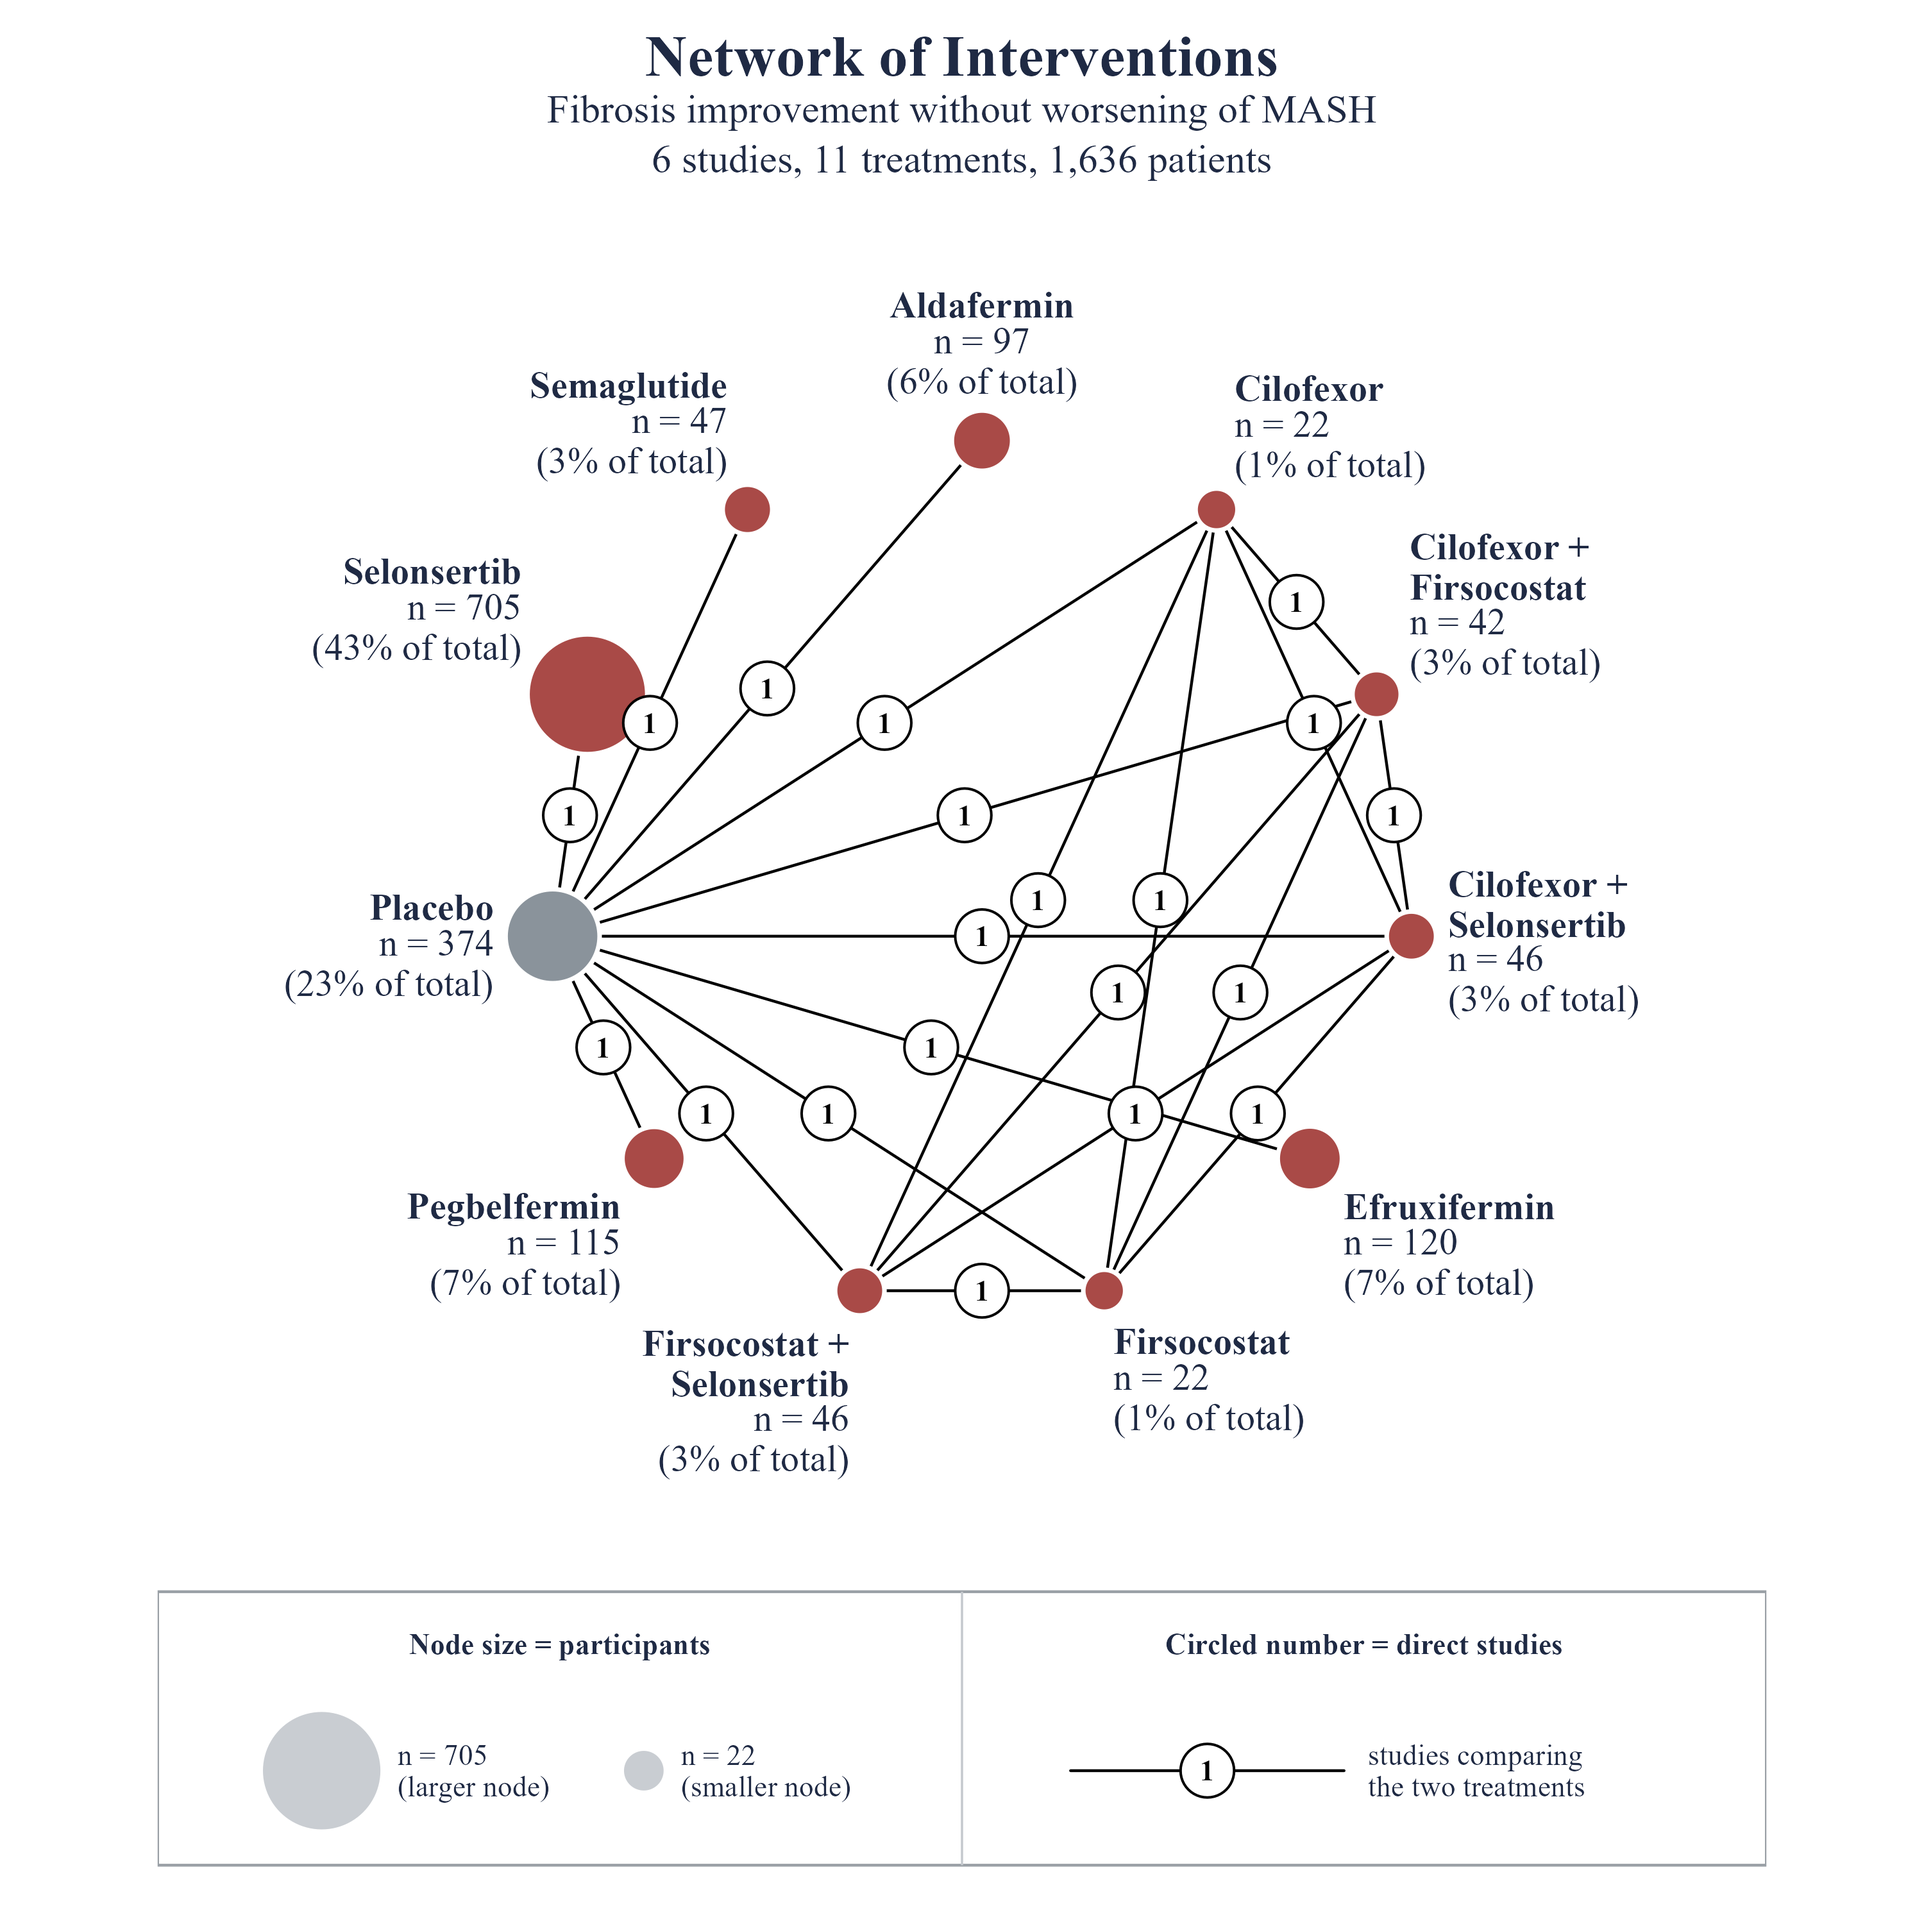
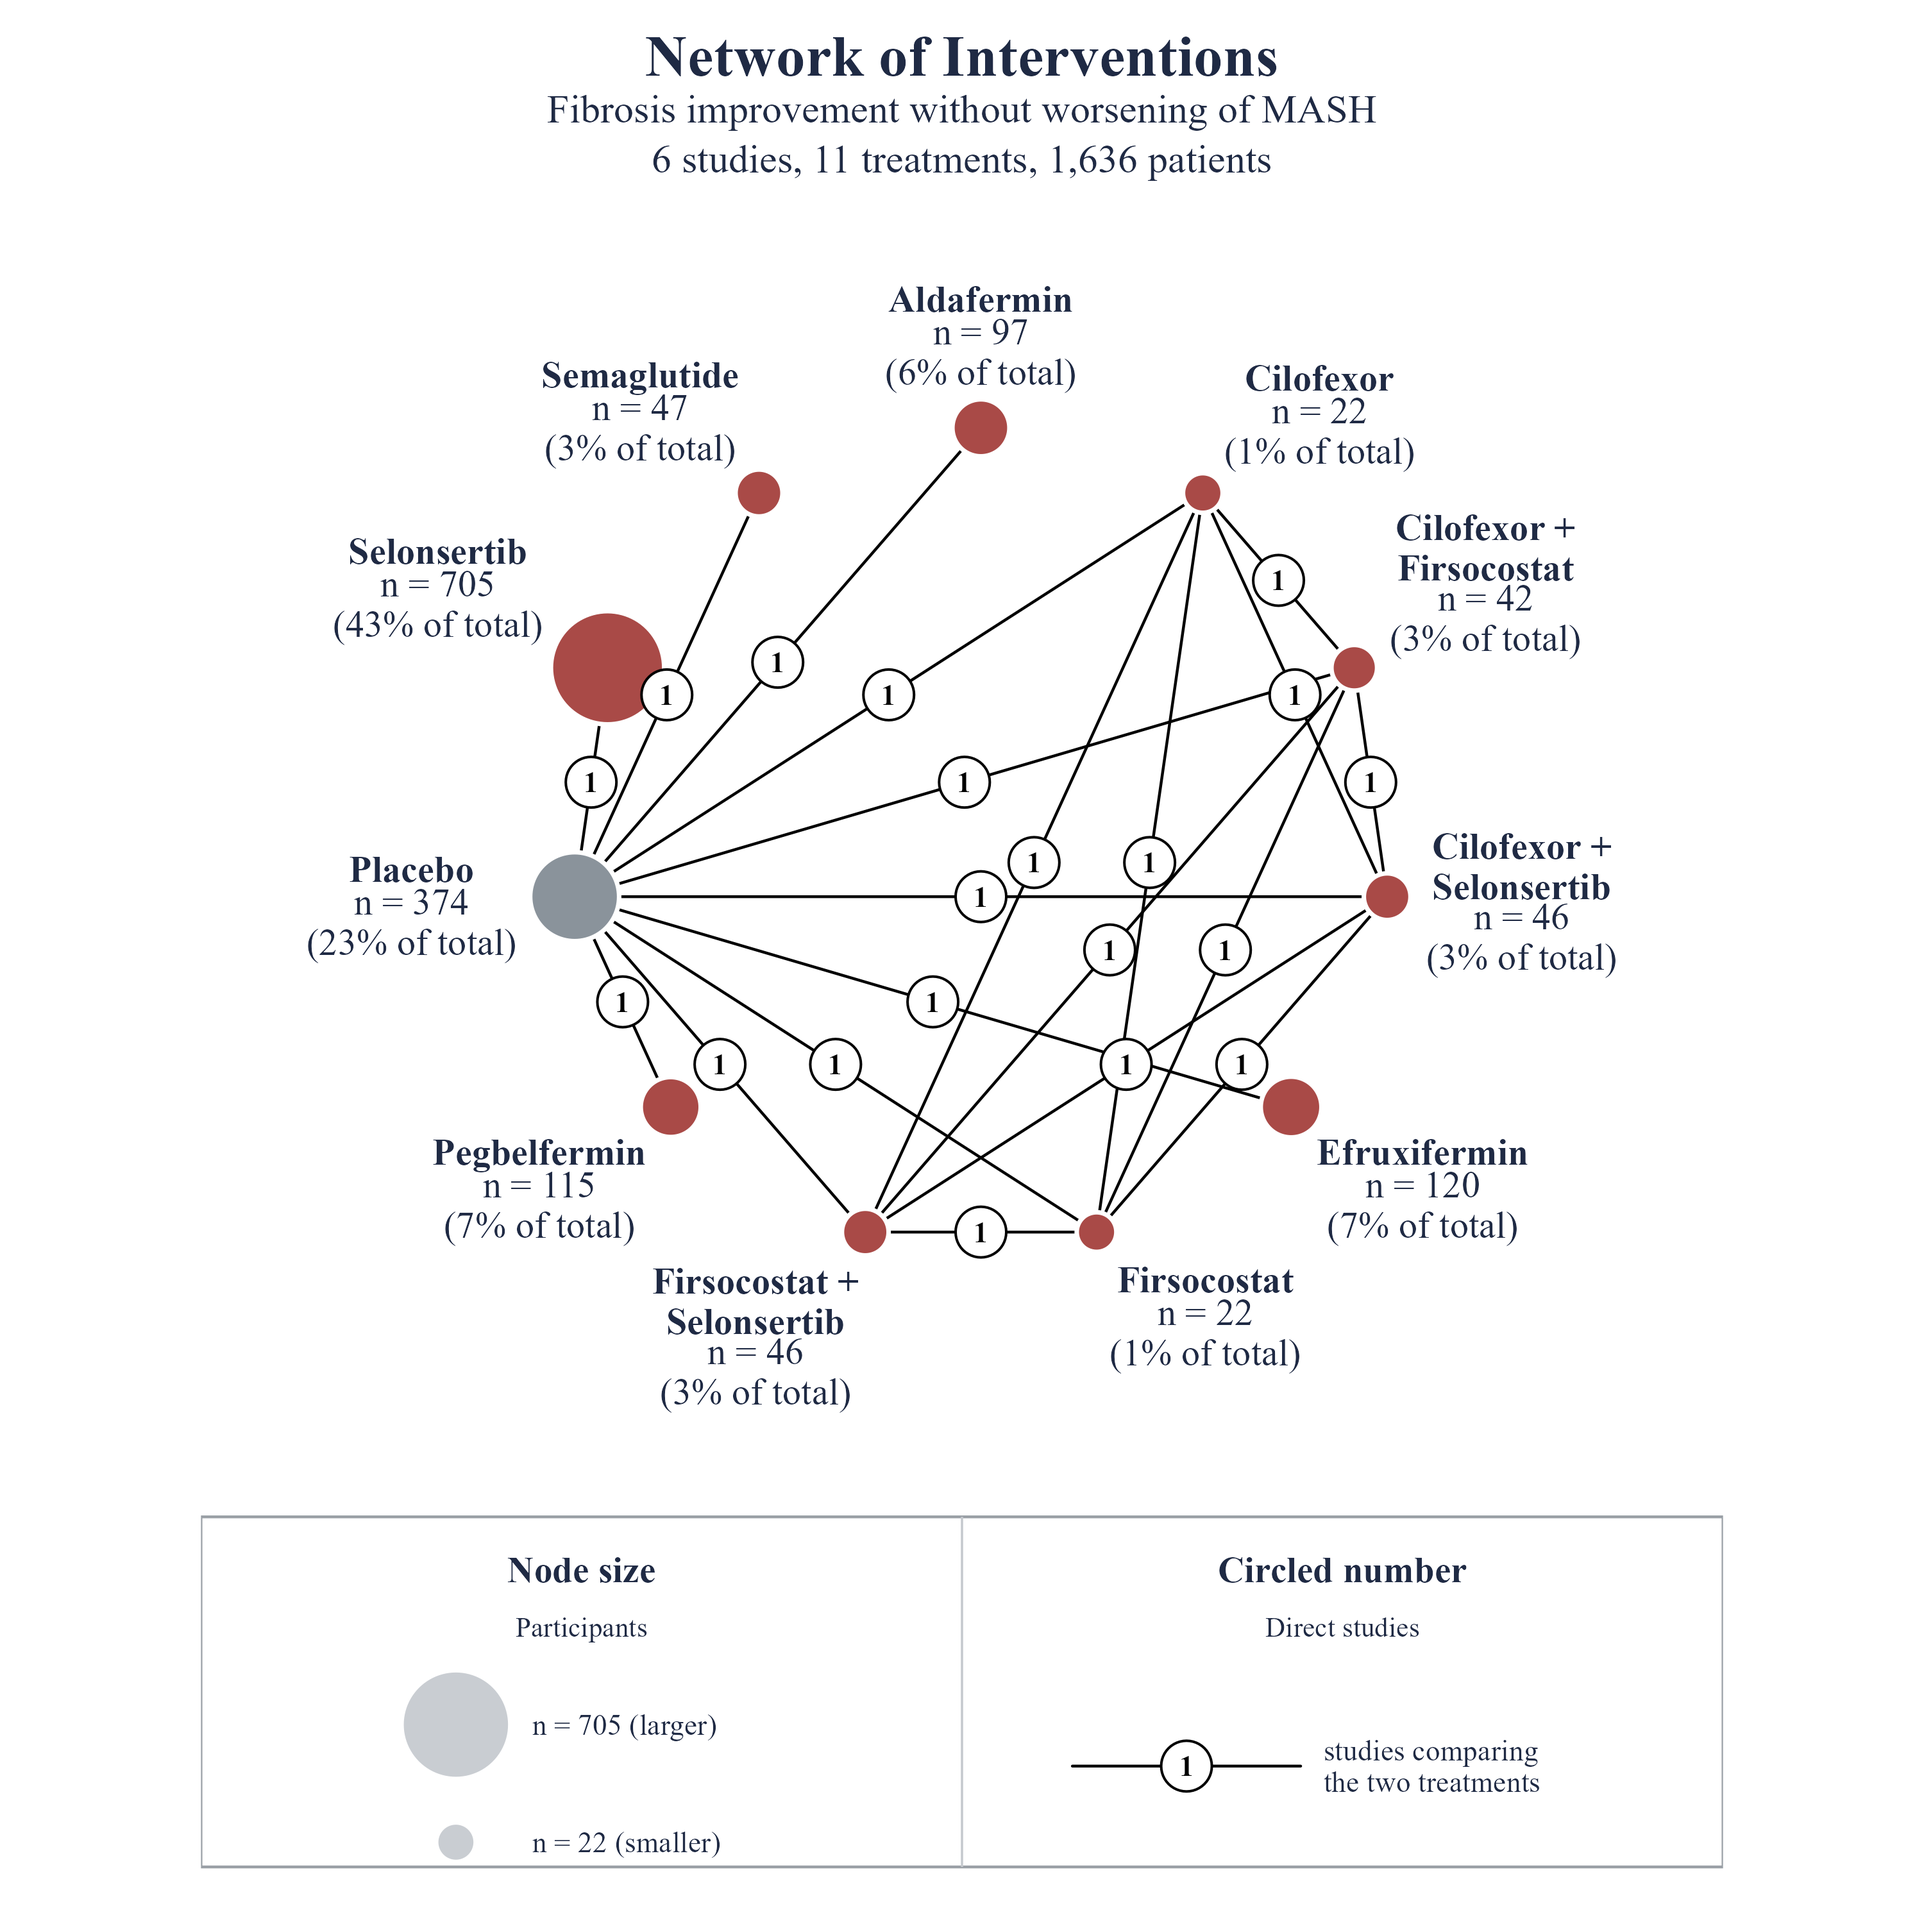
feat: legend with named sections and descriptors, centred label rows, label_box; version 0.2.0
- legend sections show a bold name (Node size, Circled number, Centre node,
  Outer ring) with a lighter descriptor below (Participants, Direct studies,
  Reference, the ring name); node-size discs stacked; the ring section shows
  a ringed disc with every group colour beside the colour squares
- node labels: name, n and share of total, every row centred, block kept on
  the far side of the disc; label_box = TRUE or a colour draws a container
- NEWS.md changelog; DESCRIPTION version 0.2.0

diff --git a/NEWS.md b/NEWS.md
@@ -1,0 +1,45 @@
+# nmaplots 0.2.0
+
+## Data
+
+* `data(mash)`: built-in example, a list of four arm-level data frames from a
+  MASH network meta-analysis (fibrosis improvement and MASH resolution,
+  highest-dose and pooled-dose), with an illustrative `design` column
+  (RCT / PSM) for the ring examples. All examples, guides and the notebook use
+  it.
+
+## Plot
+
+* Edges are black; the number of direct studies sits in a white circle with a
+  black border on each edge. Circles that would overlap slide apart along
+  their edges. Networks where every comparison has the same number of studies
+  use the thinnest line.
+* Node labels: bold treatment name, then `n = ...`, then `(x% of total)`,
+  every row centred, placed straight outward from the centre and kept clear
+  of the disc. `label_box` adds a container (TRUE, or a fill colour).
+* Outer ring (`ring =`): subgroup composition per treatment, from a long
+  data frame or a wide table such as `table(d$treatment, d$design)`.
+  Percentages are placed at the point of each segment farthest from any
+  edge and from the label. `ring_name` feeds the subtitle and the legend.
+* Layouts: `"multi"` (default polygon), `"circle"` (dashed circle guide,
+  ordered by number of comparisons), `"star"` (reference in the centre; its
+  name, n and share go to a legend section). The polygon radius grows with
+  the number of treatments.
+* Title centred by default; `outcome` becomes the subtitle; a summary line
+  gives studies, treatments and patients (`summary_line`).
+* Legend: one boxed panel under the network with centred sections, each with
+  a bold name and a descriptor: node size (two stacked discs), circled number,
+  centre node (star layout), outer ring (a ringed disc plus colour squares).
+* Larger default type; no softened text colours.
+
+## Documentation
+
+* Package page with four guides (workflow, ring, style, moving from
+  `netgraph()`), `?mash`.
+
+# nmaplots 0.1.0
+
+* First version: `nmaplot()` draws a `netmeta` network with ggplot2 (node
+  size by sample size, edge width and count by number of studies), with
+  export to PNG, PDF and TIFF and compatibility with the main `netgraph()`
+  arguments.

diff --git a/README.md b/README.md
@@ -70,7 +70,7 @@ with fibrosis, four outcomes (`?mash`). Its `design` column is illustrative.
 | Node size | `node_size = "n" / "studies" / "equal"` or numeric, `node_size_range` |
 | Edge width | `edge_width = "studies" / "equal"` or numeric, `edge_width_range` |
 | Multi-arm study shading | `multiarm`, `multiarm_fill`, `multiarm_alpha` |
-| Labels | `labels` (display names), `label_wrap`, `label_size`, `label_position = "outside" / "center"`, `label_offset` |
+| Labels | `labels` (display names), `label_wrap`, `label_size`, `label_offset`, `label_box` (TRUE, FALSE or a fill colour) |
 | Export | `file`, `width`, `height`, `dpi` |
 
 `netgraph()` arguments `col.points`, `col`, `number.of.studies`, `cex`,
